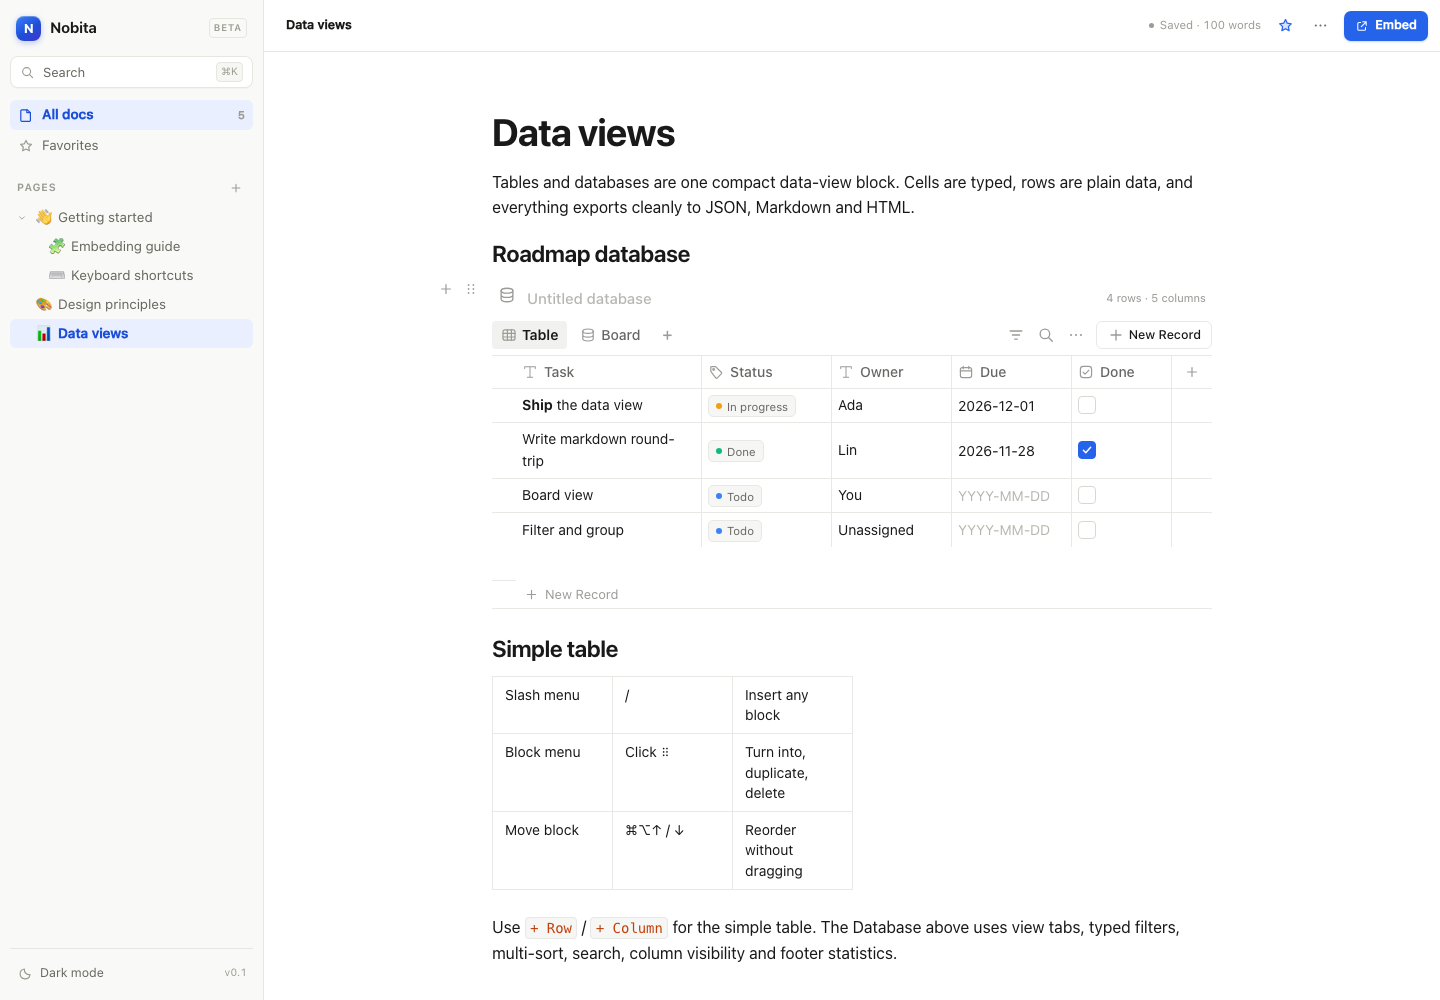
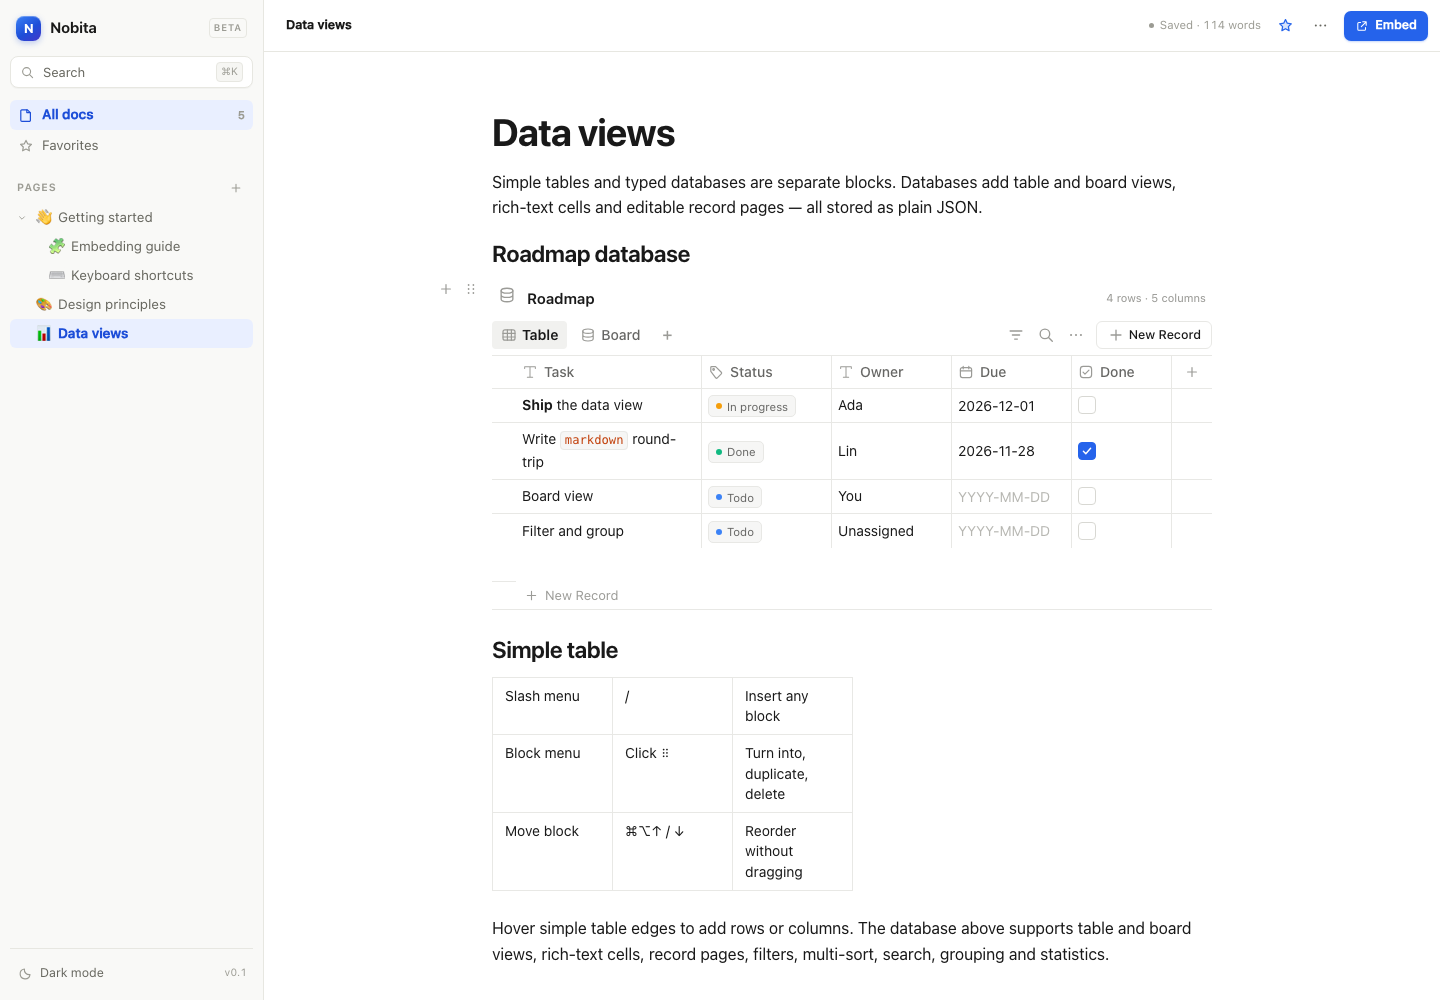
docs: refresh README, demo copy and database screenshot

diff --git a/apps/demo/src/store.ts b/apps/demo/src/store.ts
@@ -62,12 +62,14 @@ const database = (
   columns: ReturnType<typeof createDatabaseColumn>[],
   rows: ReturnType<typeof createDatabaseRow>[],
   views?: DatabaseView[],
-  activeViewId?: string
+  activeViewId?: string,
+  title?: string
 ): Block =>
   createBlock('database', {
     props: {
       database: {
         variant: 'database',
+        ...(title ? { title } : {}),
         columns,
         rows,
         ...(views ? { views } : {}),
@@ -127,7 +129,7 @@ export function createSeedState(): DemoState {
         bulleted('Undo history is structural and cheap.'),
       ]),
       bulleted('**Framework agnostic** — plain DOM, no Lit, React, or ProseMirror.'),
-      bulleted('**Small surface** — 11 block types, one dependency-free package.'),
+      bulleted('**Small surface** — 13 block types, one dependency-free package.'),
       heading(3, 'Try the controls'),
       todo('Type `/` anywhere to open the block menu', false),
       todo('Drag the handle in the left gutter to reorder blocks', false),
@@ -199,7 +201,7 @@ const editor = createEditor(document.querySelector('#editor'), {
       code(
         `nobita-editor {
   --nb-accent: #0f766e;
-  --nb-font-sans: 'Newsreader', serif;
+  --nb-font: 'Newsreader', serif;
   --nb-page-width: 760px;
 }`,
         'css'
@@ -322,6 +324,10 @@ const editor = createEditor(document.querySelector('#editor'), {
     text: 'Ship the data view',
     runs: parseInlineMarkdown('**Ship** the data view'),
   };
+  rows[1]!.cells[task.id] = {
+    text: 'Write markdown round-trip',
+    runs: parseInlineMarkdown('Write `markdown` round-trip'),
+  };
   rows[0]!.page = {
     content: [
       { text: 'Launch checklist\n', marks: { bold: true } },
@@ -336,7 +342,7 @@ const editor = createEditor(document.querySelector('#editor'), {
     null,
     [
       paragraph(
-        'Tables and databases are one compact data-view block. Cells are typed, rows are plain data, and everything exports cleanly to JSON, Markdown and HTML.'
+        'Simple tables and typed databases are separate blocks. Databases add table and board views, rich-text cells and editable record pages — all stored as plain JSON.'
       ),
       heading(2, 'Roadmap database'),
       database(
@@ -344,7 +350,8 @@ const editor = createEditor(document.querySelector('#editor'), {
         [task, status, owner, due, done],
         rows,
         [tableView, boardView],
-        tableView.id
+        tableView.id,
+        'Roadmap'
       ),
       heading(2, 'Simple table'),
       simpleTable([
@@ -353,7 +360,7 @@ const editor = createEditor(document.querySelector('#editor'), {
         ['Move block', '⌘⌥↑ / ↓', 'Reorder without dragging'],
       ]),
       paragraph(
-        'Use `+ Row` / `+ Column` for the simple table. The Database above uses view tabs, typed filters, multi-sort, search, column visibility and footer statistics.'
+        'Hover simple table edges to add rows or columns. The database above supports table and board views, rich-text cells, record pages, filters, multi-sort, search, grouping and statistics.'
       ),
     ],
     true

diff --git a/README.md b/README.md
@@ -15,7 +15,7 @@ Nobita is a from-scratch block editor built with **TypeScript 7.0.2**. It takes 
   <img src="docs/media/nobita-mobile.png" alt="Nobita on a mobile viewport" width="280" />
 </p>
 
-- **91.1 KB gzipped** standalone ESM bundle (minified, includes the core and data views).
+- **93.7 KB gzipped** (`349.5 KB` raw) standalone ESM bundle — minified with build-time CSS minification, including the core and data views.
 - **Zero runtime dependencies** — no Lit, React, ProseMirror, Yjs, or virtual DOM.
 - **Shadow DOM web component** — host styles cannot leak in, editor styles cannot leak out.
 - **Plain JSON documents** — persist to localStorage, IndexedDB, your API, or a file.
@@ -29,13 +29,13 @@ Nobita is a from-scratch block editor built with **TypeScript 7.0.2**. It takes 
 | Blocks | Text, headings 1–6, bulleted / numbered / to-do lists, quote, callout, code, divider, image, simple table, database, page links |
 | Inline | Bold, italic, underline, strikethrough, inline code, links, mentions, alignment, 8-color highlight and text-color palettes |
 | Editing | Enter / Backspace / Delete merging, Tab indent, block move, undo / redo |
-| Data views | Multiple table/board views per database, AFFiNE-style view settings, per-view column order/widths/visibility, nested AND/OR filters, multi-sort, expandable search, footer statistics, sticky add-column/new-record controls, table grouping/collapse with persisted group state, rich-text text cells with an inline formatting toolbar, editable row pages, board card add/open/reorder/group actions, column menus, drag cell selection and fill, TSV copy/paste and import; typed columns (text, number, select, multi-select, date, checkbox, URL, files, people) |
+| Data views | Multiple named table and board views per database, AFFiNE-style view settings (`⋯`), per-view column order/widths/visibility, nested AND/OR filters, multi-sort, container-aware expandable search (auto-hidden below `560px`), footer statistics, sticky add-column/new-record controls, table grouping/collapse with persisted group state; rich-text cells (`B`/`I`/`U`/`S`/code toolbar & shortcuts, highlight/color rendering, IME & plain-text paste safe), editable record pages (`row.page.content`), board card add/open/drag-reorder/group actions (preserving multi-select tags), drag cell selection & fill, TSV copy/paste, readonly view switching & record-page viewing; 9 typed columns (`text`, `number`, `select`, `multi-select`, `date`, `checkbox`, `url`, `files`, `people`) |
 | Menus | Slash menu with fuzzy search and block actions (move/copy/link), block handle menu, selection toolbar with Turn into / Align / format / Color, link popover, mention picker |
 | Drag | Reorder blocks, drop between blocks or nest into a block |
 | Markdown | `# `, `- `, `1. `, `[] `, `> `, ` ``` `, `--- `, Markdown tables; inline `**bold**`, `*italic*`, `` `code` ``, `~~strike~~`, `[links](url)` |
 | Clipboard | Rich HTML, Markdown, plain text, a private `application/x-nobita+json` format, and image paste through an upload adapter |
-| Persistence | JSON in / JSON out, `onChange`, `setDoc`, readonly mode, theming; optional `@nobita/storage` adapters for localStorage, SQLite/D1 and HTTP |
-| A11y | Keyboard menus, labels, focus-visible states, `aria-pressed` toolbar |
+| Persistence | JSON in / JSON out, `onChange`, `setDoc`, readonly mode (read-only view switching and record pages in databases), theming; optional `@nobita/storage` adapters for localStorage, SQLite/D1 and HTTP |
+| A11y | Keyboard menus and row/card actions (`Mod+Enter` opens record pages), record-page modal focus trap & focus restoration, `:focus-visible` outlines, `aria-pressed` / `data-active` formatting toolbars, `@media (hover: none)` touch controls |
 
 Not in the box: synced blocks, comments, math, embeds, collaboration, a managed image host, and virtualization for very large documents. Image uploads are supported through a host adapter. See [Roadmap](#roadmap).
 
@@ -115,7 +115,7 @@ The React wrapper only manages the host element; React never renders a block. Th
 
 ## Storage
 
-The editor itself remains plain JSON in / JSON out. Nothing in `@nobita/element` imports a database, and the 91.1 KB bundle is unchanged.
+The editor itself remains plain JSON in / JSON out. Nothing in `@nobita/element` imports a database, and the 93.7 KB gzipped bundle is unchanged.
 
 `@nobita/storage` is an optional package for hosts that want a ready-made persistence port:
 
@@ -195,10 +195,19 @@ A document is deliberately simple, stable JSON:
         {
           "id": "r1",
           "cells": {
-            "c1": { "text": "Ship it" },
+            "c1": {
+              "text": "Ship it",
+              "runs": [
+                { "text": "Ship", "marks": { "bold": true } },
+                { "text": " it" }
+              ]
+            },
             "c2": { "text": "Done" },
             "c3": { "text": "2026-12-01" },
             "c4": { "checked": true }
+          },
+          "page": {
+            "content": [{ "text": "Release checklist and notes." }]
           }
         }
       ],
@@ -207,7 +216,12 @@ A document is deliberately simple, stable JSON:
           "id": "v1",
           "name": "Table",
           "type": "table",
-          "filters": [],
+          "columns": [
+            { "id": "c1", "width": 200 },
+            { "id": "c2", "width": 130 },
+            { "id": "c3", "width": 120 },
+            { "id": "c4", "width": 86, "stat": "checked" }
+          ],
           "sorts": [{ "columnId": "c3", "direction": "asc" }]
         },
         {
@@ -215,7 +229,13 @@ A document is deliberately simple, stable JSON:
           "name": "Board",
           "type": "board",
           "groupBy": "c2",
-          "filters": [{ "columnId": "c2", "operator": "is", "value": "Todo" }]
+          "groupProperties": [
+            { "key": "Done", "manuallyCardSort": ["r1"] }
+          ],
+          "filter": {
+            "mode": "and",
+            "conditions": [{ "columnId": "c2", "operator": "is", "value": "Done" }]
+          }
         }
       ],
       "activeViewId": "v1"
@@ -225,7 +245,7 @@ A document is deliberately simple, stable JSON:
 }
 ```
 
-Column types are `text`, `number`, `select`, `multi-select`, `date`, `checkbox`, `url`, `files` and `people`. Columns can persist a `width`; empty cells are omitted, so documents stay compact. Each view stores its own filters, filter mode, sort keys, grouping, hidden columns and footer statistics. Markdown/HTML tables import as simple tables; TSV paste continues to fill database cells. Legacy documents with a single `view` / `sort` still load and are migrated on the next view edit.
+Column types are `text`, `number`, `select`, `multi-select`, `date`, `checkbox`, `url`, `files` and `people`. Text cells store optional rich-text `runs` alongside the plain `text` projection (used for search, filtering, sorting, statistics and TSV/Markdown export), and empty cells are omitted so documents stay compact. Rows can also carry an optional rich-text `page.content` body edited inside the record page panel. Each view stores its own column layout (order, width, visibility and footer stat), nested `filter` tree, `sorts`, `groupBy` and `groupProperties` (group order, hidden/collapsed state and `manuallyCardSort`). Markdown/HTML tables import as simple tables; TSV paste fills database cells. Legacy documents with a single `view`, `sort`, flat `filters` or `hiddenColumns` still load and migrate on the next edit.
 
 ## API
 
@@ -244,7 +264,7 @@ See [docs/public-api.md](docs/public-api.md) for the stable import surface, edit
 | `focus(blockId?, offset?)` | Focus the editor or a block |
 | `focusTitle()` / `blur()` | Focus control |
 | `undo()` / `redo()` | History |
-| `setReadonly(value)` / `setTheme(theme)` | Runtime configuration |
+| `setReadonly(value)` / `setTheme(theme)` / `setPlaceholder(value)` | Runtime configuration |
 | `insertMarkdown(markdown)` | Insert blocks at the caret |
 | `getBlockLink(blockId)` | Return the stable `#block-…` link for a block |
 | `insertPageLink(page, { afterBlockId? })` | Insert a reference to a host-owned page |
@@ -352,39 +372,40 @@ pnpm bench
 
 ## Performance
 
-Measured in headless Chrome 158 on the development host, production build:
+Measured in headless Chromium via `pnpm bench` (`setDoc` + full render, median of 5 runs, production build):
 
-| Blocks | Initial render | Keystroke (synthetic `beforeinput`, median) |
-| --- | ---: | ---: |
-| 200 | 11 ms | 0.4 ms |
-| 1,000 | 20 ms | 0.9 ms |
-| 3,000 | 35 ms | 3.5 ms |
+| Blocks | `setDoc` + render (median) |
+| --- | ---: |
+| 200 | 2.4 ms |
+| 1,000 | 14.1 ms |
+| 3,000 | 42.1 ms |
 
-A 100-row × 6-column data view renders in about **12 ms**. Data-view cell edits are in-place and do not rebuild the grid.
+Data-view cell edits update cells in-place by reference identity without rebuilding the grid, memoize per-state view queries, apply differential selection updates, and delegate table header/body events.
 
-Bundle sizes:
+Bundle sizes (`pnpm size`):
 
 | Artifact | Raw | Gzip |
 | --- | ---: | ---: |
-| Editor ESM (`nobita.js`) | 357.2 KB | **91.1 KB** |
-| Demo app (editor + UI + seed data) | 391.0 KB | 101.8 KB |
+| Editor ESM (`nobita.js`) | 349.5 KB | **93.7 KB** |
+| Editor IIFE (`nobita.global.js`) | 349.5 KB | **93.7 KB** |
+| Demo app (editor + UI + seed data) | 393.9 KB | 105.5 KB |
 
-The optional `@nobita/storage` package is not part of either bundle; it is only present when a host imports it.
+The optional `@nobita/storage` package is not part of any editor bundle; it is only present when a host imports it.
 
-Why it stays small: immutable path-copy updates mean undo is a pointer swap; per-block DOM views are patched by reference; no framework runtime ships; the renderer never re-renders unchanged blocks. See [architecture](docs/architecture.md).
+Why it stays small: immutable path-copy updates mean undo is a pointer swap; per-block DOM views are patched by reference; CSS is minified at bundle time; no framework runtime ships; the renderer never re-renders unchanged blocks. See [architecture](docs/architecture.md).
 
-The numbers are directional, not a guarantee: keystroke timing excludes OS/browser key dispatch and paint.
+The numbers are directional, not a guarantee: timing varies by hardware and browser version.
 
 ## Repository layout
 
 ```
 packages/core      Document model, commands, markdown, JSON validation, history — no DOM
-packages/element   Editor engine, block views, selection, menus, toolbar, web component
+packages/element   Editor engine, block views, modular database views, selection, menus, toolbar, web component, CSS bundler
 packages/react     Thin React host wrapper
 packages/storage   Optional persistence port and adapters (localStorage, SQLite/D1, HTTP)
 apps/demo          Notion-like demo: sidebar, pages, search, export, embed dialog
 examples/          Optional integrations, including the Cloudflare D1 Worker
-docs/              AFFiNE analysis, architecture and storage notes
+docs/              AFFiNE analysis, architecture, public API, command comparison, testing and storage notes
 ```
 
 ## Design notes
@@ -393,9 +414,9 @@ Nobita began with an analysis of AFFiNE 0.27.x, both the live app and the BlockS
 
 That last point matters: Chromium clamps ranges that span separate `contenteditable` elements inside a shadow root. To get real cross-block selection, formatting, copy and delete, Nobita places all blocks inside **one** contenteditable body while keeping per-block rendering and a block/offset selection model. The trade-off and internals are documented in [docs/architecture.md](docs/architecture.md).
 
-Data views follow the same rule: one `database` block, a narrow nested editing host for each cell, a structural-key check to avoid rebuilding the grid while typing, and plain row JSON. No grid library is shipped.
+Data views follow the same rule: one `database` block, model-driven rich-text runs via `@nobita/core`, delegated table listeners, structural-key + reference-identity sync to avoid rebuilding the grid while typing, and plain row JSON. No grid library is shipped.
 
-A command-by-command comparison with AFFiNE, including recommended P0/P1 additions, is in [docs/command-comparison.md](docs/command-comparison.md).
+A command-by-command comparison with AFFiNE is in [docs/command-comparison.md](docs/command-comparison.md).
 
 ## Roadmap
 
